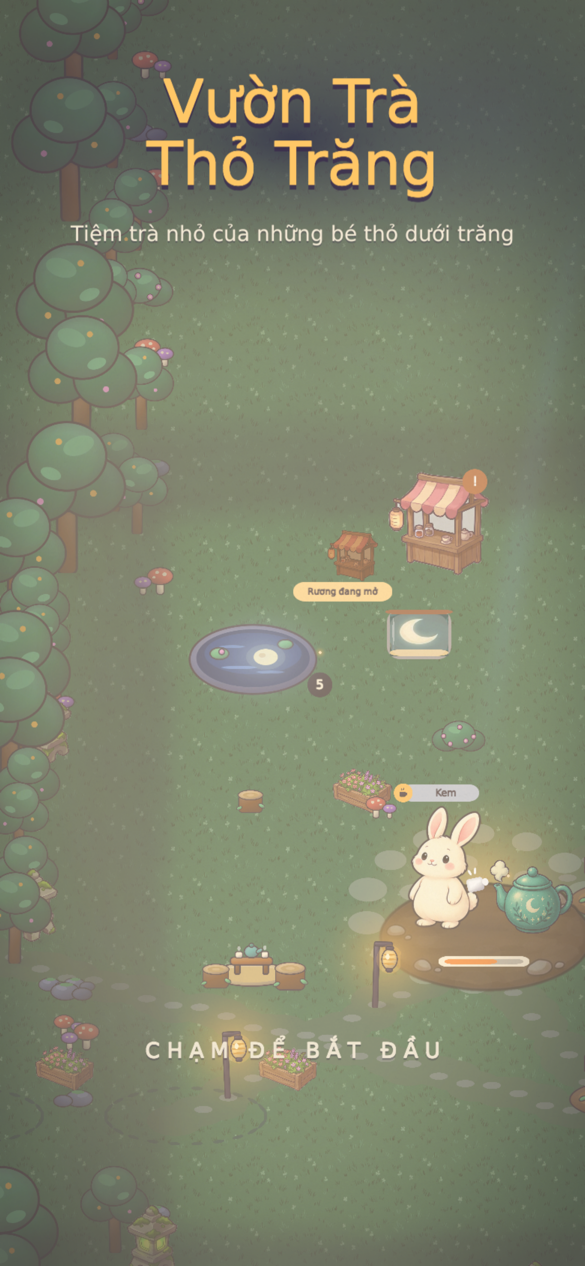
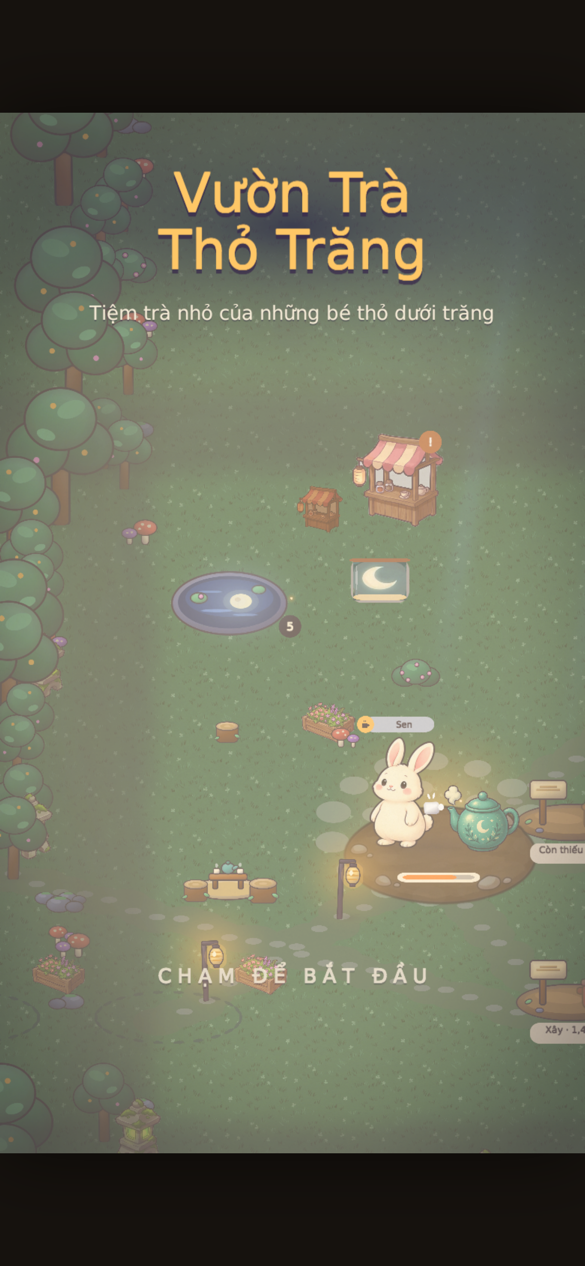
On phones the web game now sits in the same centred 9:16 frame as on desktop, so the top bar is no longer cut off, and the web build script refuses to run Unity outside the shared gate (#150).

diff --git a/Assets/WebGLTemplates/VuonTra/TemplateData/style.css b/Assets/WebGLTemplates/VuonTra/TemplateData/style.css
@@ -23,12 +23,6 @@ body {
   box-shadow: 0 0 48px rgba(0, 0, 0, 0.6);
 }
 
-body.phone #frame {
-  width: 100vw;
-  height: 100dvh;
-  box-shadow: none;
-}
-
 #unity-canvas {
   display: block;
   width: 100%;

diff --git a/docs/phat-hanh/BAN-WEB.md b/docs/phat-hanh/BAN-WEB.md
@@ -9,7 +9,7 @@ tools/build-webgl.sh
 tools/publish-pages.sh
 ```
 
-- `tools/build-webgl.sh [ưu tiên]` dựng vào `Build/WebGL/` qua cổng Unity `/tmp/unity-gate.sh` (ưu tiên mặc định 4). Máy không có cổng thì chạy thẳng `tools/build.sh webgl`.
+- `tools/build-webgl.sh [ưu tiên]` dựng vào `Build/WebGL/` qua cổng Unity `/tmp/unity-gate.sh` (ưu tiên mặc định 4). Thiếu cổng thì script dừng với mã 2; phải khôi phục cổng trước, không chạy Unity ngoài cổng.
 - `tools/publish-pages.sh [remote]` đẩy nội dung `Build/WebGL/` cùng `.nojekyll` lên nhánh `gh-pages` của origin bằng tài khoản KaneNguyen03.
 
 Đóng Unity Editor trước khi build (batch mode không mở được project đang mở). Thư mục `Build/` không bao giờ commit.
@@ -20,7 +20,7 @@ tools/publish-pages.sh
 |---|---|---|
 | Nén | Brotli, **Decompression Fallback bật**: trình duyệt tự giải nén bằng JS nên GitHub Pages không cần header `Content-Encoding` | `BuildScript.ConfigureWebGL` |
 | Exception | `ExplicitlyThrownExceptionsOnly` (mức tối thiểu còn bắt được lỗi do code ném) | như trên |
-| Template | `Assets/WebGLTemplates/VuonTra`: trang nền tối, khung dọc 9:16 giữa màn trên máy tính, toàn màn trên điện thoại, thanh tải, không có viền/logo Unity | `PlayerSettings.WebGL.template = PROJECT:VuonTra` |
+| Template | `Assets/WebGLTemplates/VuonTra`: trang nền tối, khung dọc 9:16 giữa màn trên cả máy tính và điện thoại, có khoảng nền tối ngoài khung nếu màn khác tỉ lệ, thanh tải, không có viền/logo Unity | `PlayerSettings.WebGL.template = PROJECT:VuonTra` |
 | Độ nét | canvas theo cửa sổ, `devicePixelRatio` tối đa 2 | `index.html` của template |
 | Save | `persistentDataPath` trên web là `/idbfs/...` trong IndexedDB; template bật `autoSyncPersistentDataPath` nên mỗi lần `SaveStore` ghi tệp là Unity tự đẩy xuống IndexedDB, không cần `.jslib` | `index.html` của template |
 | Tiếng | trình duyệt chặn âm thanh trước lần chạm đầu; Unity tự mở lại `AudioContext` khi người chơi chạm/nhấn lần đầu | sẵn trong Unity |
@@ -59,13 +59,13 @@ Repo đang public nên Pages miễn phí. Nếu repo chuyển sang private thì 
 | Mục | Giá trị |
 |---|---|
 | Dung lượng tải | 43 MB trên đĩa, ~42 MB tải lần đầu: `WebGL.data.unityweb` 32,5 MB, `WebGL.wasm.unityweb` 9,3 MB, `framework.js` + `loader.js` 0,2 MB |
-| Tải lần đầu | 5,5–9,5 s từ `localhost` (Chrome headless, `python3 -m http.server`, không header `Content-Encoding`); mạng 20 Mbit/s cộng thêm khoảng 17 s, vẫn dưới 30 s |
+| Tải lần đầu | 5,5–9,5 s từ `localhost` (Chrome 158.0.8127.37 headless, `python3 -m http.server`, không header `Content-Encoding`); mạng thật ≤30 s: **NOT TESTED**, không suy ra từ localhost |
 | Mở lại | ~6 s, tải 0 MB (Unity cache tệp build trong IndexedDB) |
 | Console | không lỗi, không cảnh báo; chỉ có dòng gợi ý của Unity về header `Content-Encoding: br` |
 | Save | đóng hẳn trình duyệt rồi mở lại: `playSeconds` 15,1 → 30,2, vườn còn nguyên |
 | Đổi ngôn ngữ | Tiếng Việt ↔ English trong menu Tạm nghỉ đổi ngay, không hiện khoá thô |
 
-Ảnh: `docs/anh/po-150/web-desktop-*.png` (1440×900) và `web-mobile-*.png` (390×844, iPhone).
+Ảnh: `docs/anh/po-150/web-desktop-*.png` (1440×900) và `web-mobile-*.png` (viewport giả lập 390×844 trong Chrome desktop; không phải iPhone thật). **Safari desktop, Safari iOS, Chrome Android trên thiết bị thật: NOT TESTED.**
 
 ## Lưu ý
 
